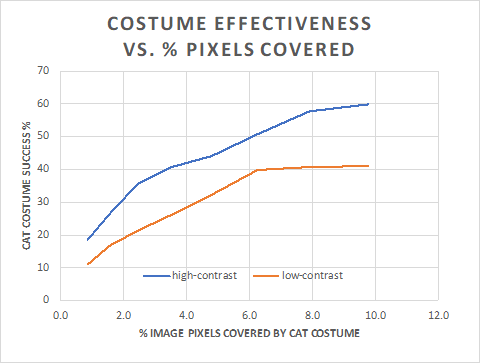
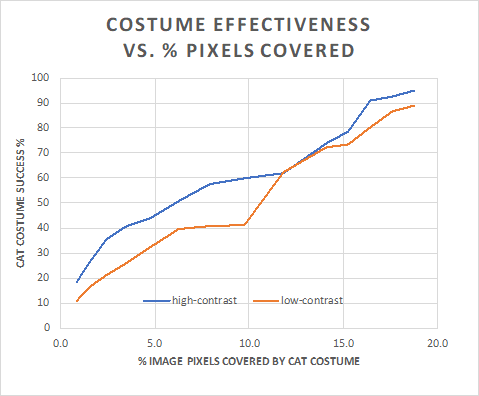
updates to cat_disguise_demo, and graph

diff --git a/cat_disguise_demo.py b/cat_disguise_demo.py
@@ -97,7 +97,7 @@ ulx_range = range(12,19)
 uly_range = range(12,19)
 max_val   = 2**(3*3)
 # this has already been characterized, so the val_range will be truncated to known good values for expediency
-val_range = [1,59,438,463,495,503,510] #list(range(55,60)) + list(range(430,max_val)) # all binary combinations of the 3x3 pixel pattern
+val_range = range(1,max_val) #[1,5,21,59,438,463,495,503,510] #list(range(55,60)) + list(range(430,max_val)) # all binary combinations of the 3x3 pixel pattern
 vals = len(val_range)
 low_cat_score = np.ones([max_val,images])
 
@@ -127,20 +127,26 @@ for val in val_range :
                     low_cat_score[val,i] = cat_score
                     best_ulx[val,i] = ulx
                     best_uly[val,i] = uly
+                    if (0) : # plot all improved images
+                        c = np.argmax(y_pred[i])
+                        if ((not c==cat_idx) and (y_pred[i,c]>0.9)) :
+                            plot(x[i], "disguise {:d} reduced cat {:d} probability from {:0.3f} to {:0.3f} \nis now a {:s} with {:0.3f} probability".
+                            format(val,i,initial_cat_score[i],low_cat_score[val,i], class_names[c], y_pred[i,c] ))
+            
+    if (0) : # display best disguised winners
+        best_disguised     = np.argpartition(low_cat_score[val], 1)[0]
+        best_disguised_img = np.copy(x_cat_test[best_disguised])
+        best_disguised_img = sticker_image(best_disguised_img,sticker,best_ulx[val,best_disguised],best_uly[val,best_disguised])
+        best_disguised_pred = model.predict(np.reshape(best_disguised_img,[1,32,32,3]))
+        c = np.argmax(best_disguised_pred[0])
 
-    best_disguised     = np.argpartition(low_cat_score[val], 1)[0]
-    best_disguised_img = np.copy(x_cat_test[best_disguised])
-    best_disguised_img = sticker_image(best_disguised_img,sticker,best_ulx[val,best_disguised],best_uly[val,best_disguised])
-    best_disguised_pred = model.predict(np.reshape(best_disguised_img,[1,32,32,3]))
-    c = np.argmax(best_disguised_pred[0])
+        plot(best_disguised_img, "disguise {:d} reduced cat {:d} probability from {:0.3f} to {:0.3f} \nis now a {:s} with {:0.3f} probability".
+        format(val,best_disguised,initial_cat_score[best_disguised],low_cat_score[val,best_disguised], class_names[c], best_disguised_pred[0,c] ))
 
-    plot(best_disguised_img, "disguise {:d} reduced cat {:d} probability from {:0.3f} to {:0.3f} \nis now a {:s} with {:0.3f} probability".
-       format(val,best_disguised,initial_cat_score[best_disguised],low_cat_score[val,best_disguised], class_names[c], best_disguised_pred[0,c] ))
-
-    worst_disguised     =  np.argpartition(low_cat_score[val], -1)[0]
-    worst_disguised_img = np.copy(x_cat_test[worst_disguised])
-    worst_disguised_img = sticker_image(worst_disguised_img,sticker,best_ulx[val,worst_disguised],best_uly[val,worst_disguised])
-    plot(worst_disguised_img, "disguise {:d} failed on cat {:d} probability went from {:0.3f} to {:0.3f}".format(val,worst_disguised,initial_cat_score[worst_disguised],low_cat_score[val,worst_disguised]))
+        worst_disguised     =  np.argpartition(low_cat_score[val], -1)[0]
+        worst_disguised_img = np.copy(x_cat_test[worst_disguised])
+        worst_disguised_img = sticker_image(worst_disguised_img,sticker,best_ulx[val,worst_disguised],best_uly[val,worst_disguised])
+        plot(worst_disguised_img, "disguise {:d} failed on cat {:d} probability went from {:0.3f} to {:0.3f}".format(val,worst_disguised,initial_cat_score[worst_disguised],low_cat_score[val,worst_disguised]))
 
 
     reductions = np.subtract(initial_cat_score,low_cat_score[val,:])
@@ -151,11 +157,25 @@ for val in val_range :
         best_reduction = total_reduction[val]
         best_val       = val
 
-print("best disguise was {:d} with an average reduction of {:0.3f}".format(best_val,best_reduction/images))
+print("\nbest disguise was {:d} with an average reduction of {:0.3f}".format(best_val,best_reduction/images))
 
-#print("better disguises")
-#topN = 10
-#best_ind = np.argpartition(total_reduction, -topN)[-topN:]
-#for i in best_ind :
-#    print("{:d} = {:0.3f}".format(i,total_reduction[i]/images))
+if (1) : # print topN disguise values
+    topN = 10
+    print("\ntop {:d} disguises".format(topN))
+    best_ind = np.argpartition(total_reduction, -topN)[-topN:]
+    for i in best_ind :
+        print("{:d} = {:0.3f}".format(i,total_reduction[i]/images))
 
+
+print("\nbest disguises for given number of pixels")
+best_reduction_for_pxl_cnt = np.zeros(3*3,dtype='float')
+best_val_for_pxl_cnt = np.zeros(3*3,dtype='int')
+for val in val_range :
+    pxl_cnt = bin(val).count("1") - 1
+    if (total_reduction[val]>best_reduction_for_pxl_cnt[pxl_cnt]) :
+        best_reduction_for_pxl_cnt[pxl_cnt] = total_reduction[val]
+        best_val_for_pxl_cnt[pxl_cnt] = val
+
+for i in range(3*3) :
+    pxl_cnt = i+1
+    print("for {:d} pixels, disguise {:d} was best, with {:0.3f} average probability reduction".format(pxl_cnt,best_val_for_pxl_cnt[i],best_reduction_for_pxl_cnt[i]/images))
